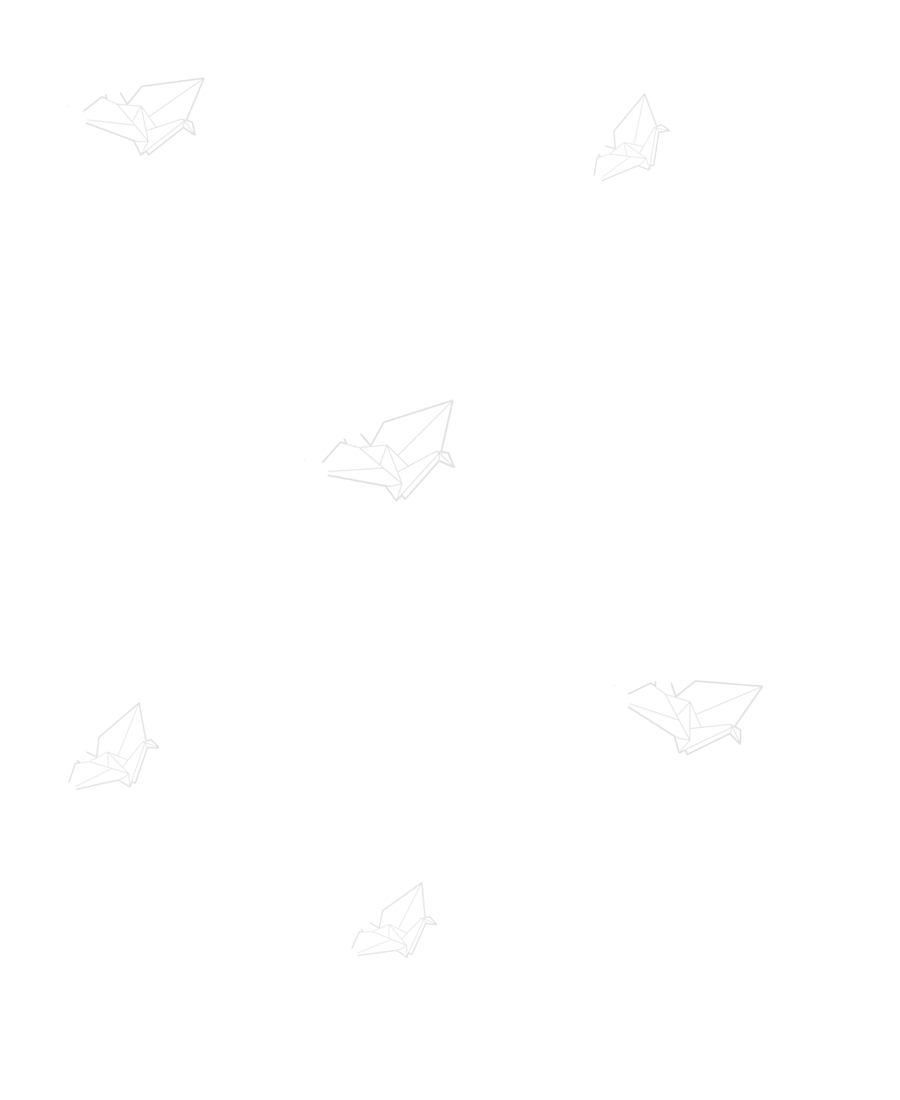
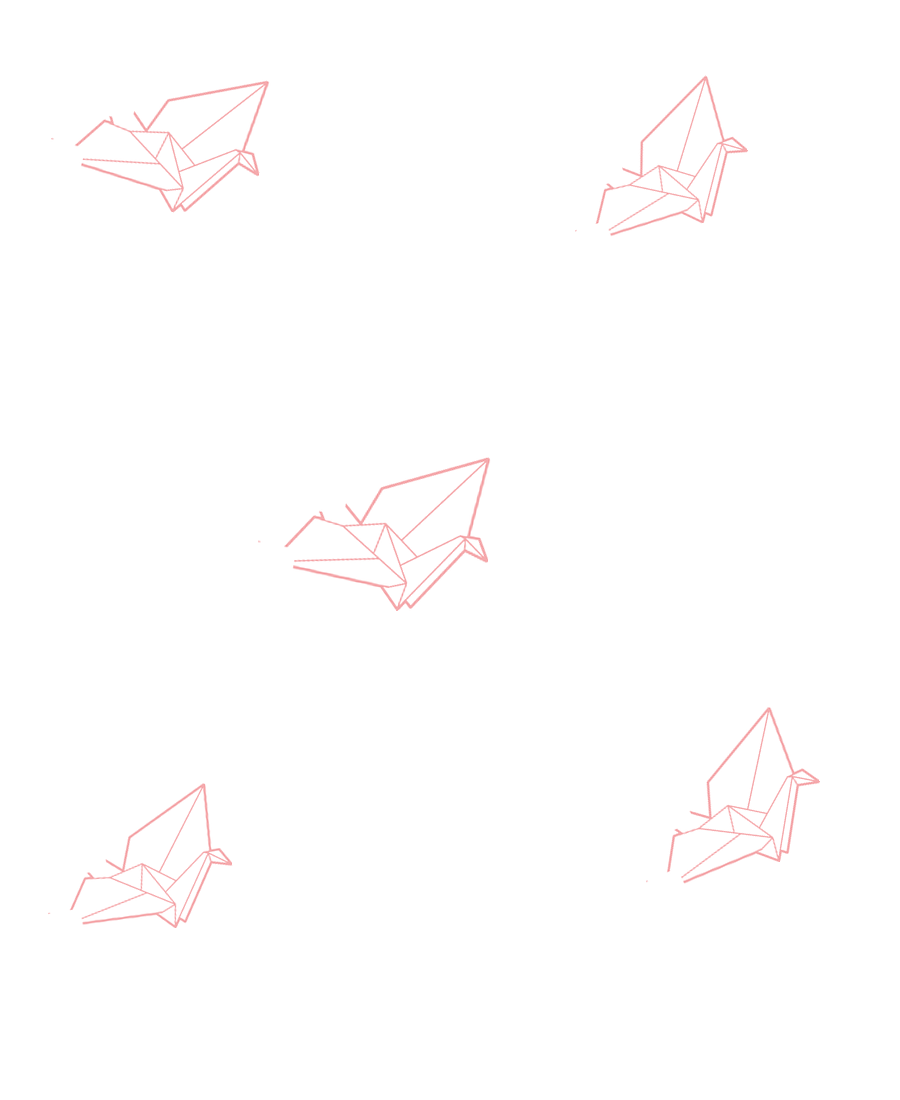
fix(food-market): make the Japanese kitchen's crane details actually visible
The crane's thin origami fold-lines were disappearing at the same alpha/
opacity values that work fine for the bolder Georgian petroglyphs and Thai
icons -- thin line art needs more ink to read at a glance.

- Regenerated tile-japanese.png: fewer, bigger cranes, alpha roughly 2.5x
  higher, tinted the kitchen's own red accent instead of gray so it reads as
  deliberate branding rather than a washed-out smudge.
- Card-corner jp-crane stamp: bumped its opacity from the shared 0.16 to 0.4
  (Georgian/Thai/Drinks icons are untouched, still 0.16 -- their bolder
  linework already reads fine there).

Claude-Session: https://claude.ai/code/session_016EeAiVxV1e8eRy2wVjW5K1

diff --git a/index.html b/index.html
@@ -2246,6 +2246,10 @@
         [data-tenant="food-market-main"][data-theme="day"] .menu-item[data-bg-doodle="th-star"]::after        { background-image: url('./img/food-market/doodles/th-star-dark.png'); }
         [data-tenant="food-market-main"][data-theme="day"] .menu-item[data-bg-doodle="th-chili"]::after       { background-image: url('./img/food-market/doodles/th-chili-dark.png'); }
         [data-tenant="food-market-main"][data-theme="day"] .menu-item[data-bg-doodle="jp-crane"]::after       { background-image: url('./img/food-market/doodles/jp-crane-dark.png'); }
+        /* The crane's thin origami fold-lines read far fainter than the bold
+           Georgian/Thai icons at the shared 0.16 opacity above, so it needs its own
+           boost to actually be visible on the card. */
+        [data-tenant="food-market-main"][data-theme="day"] .menu-item[data-bg-doodle="jp-crane"]::after       { opacity: 0.4; }
         [data-tenant="food-market-main"][data-theme="day"] .menu-item[data-bg-doodle="dr-citrus"]::after      { background-image: url('./img/food-market/doodles/dr-citrus-dark.png'); }
         [data-tenant="food-market-main"][data-theme="day"] .menu-item[data-bg-doodle="dr-flower"]::after      { background-image: url('./img/food-market/doodles/dr-flower-dark.png'); }
         [data-tenant="food-market-main"][data-theme="day"] .menu-item[data-bg-doodle="dr-spiral"]::after      { background-image: url('./img/food-market/doodles/dr-spiral-dark.png'); }
